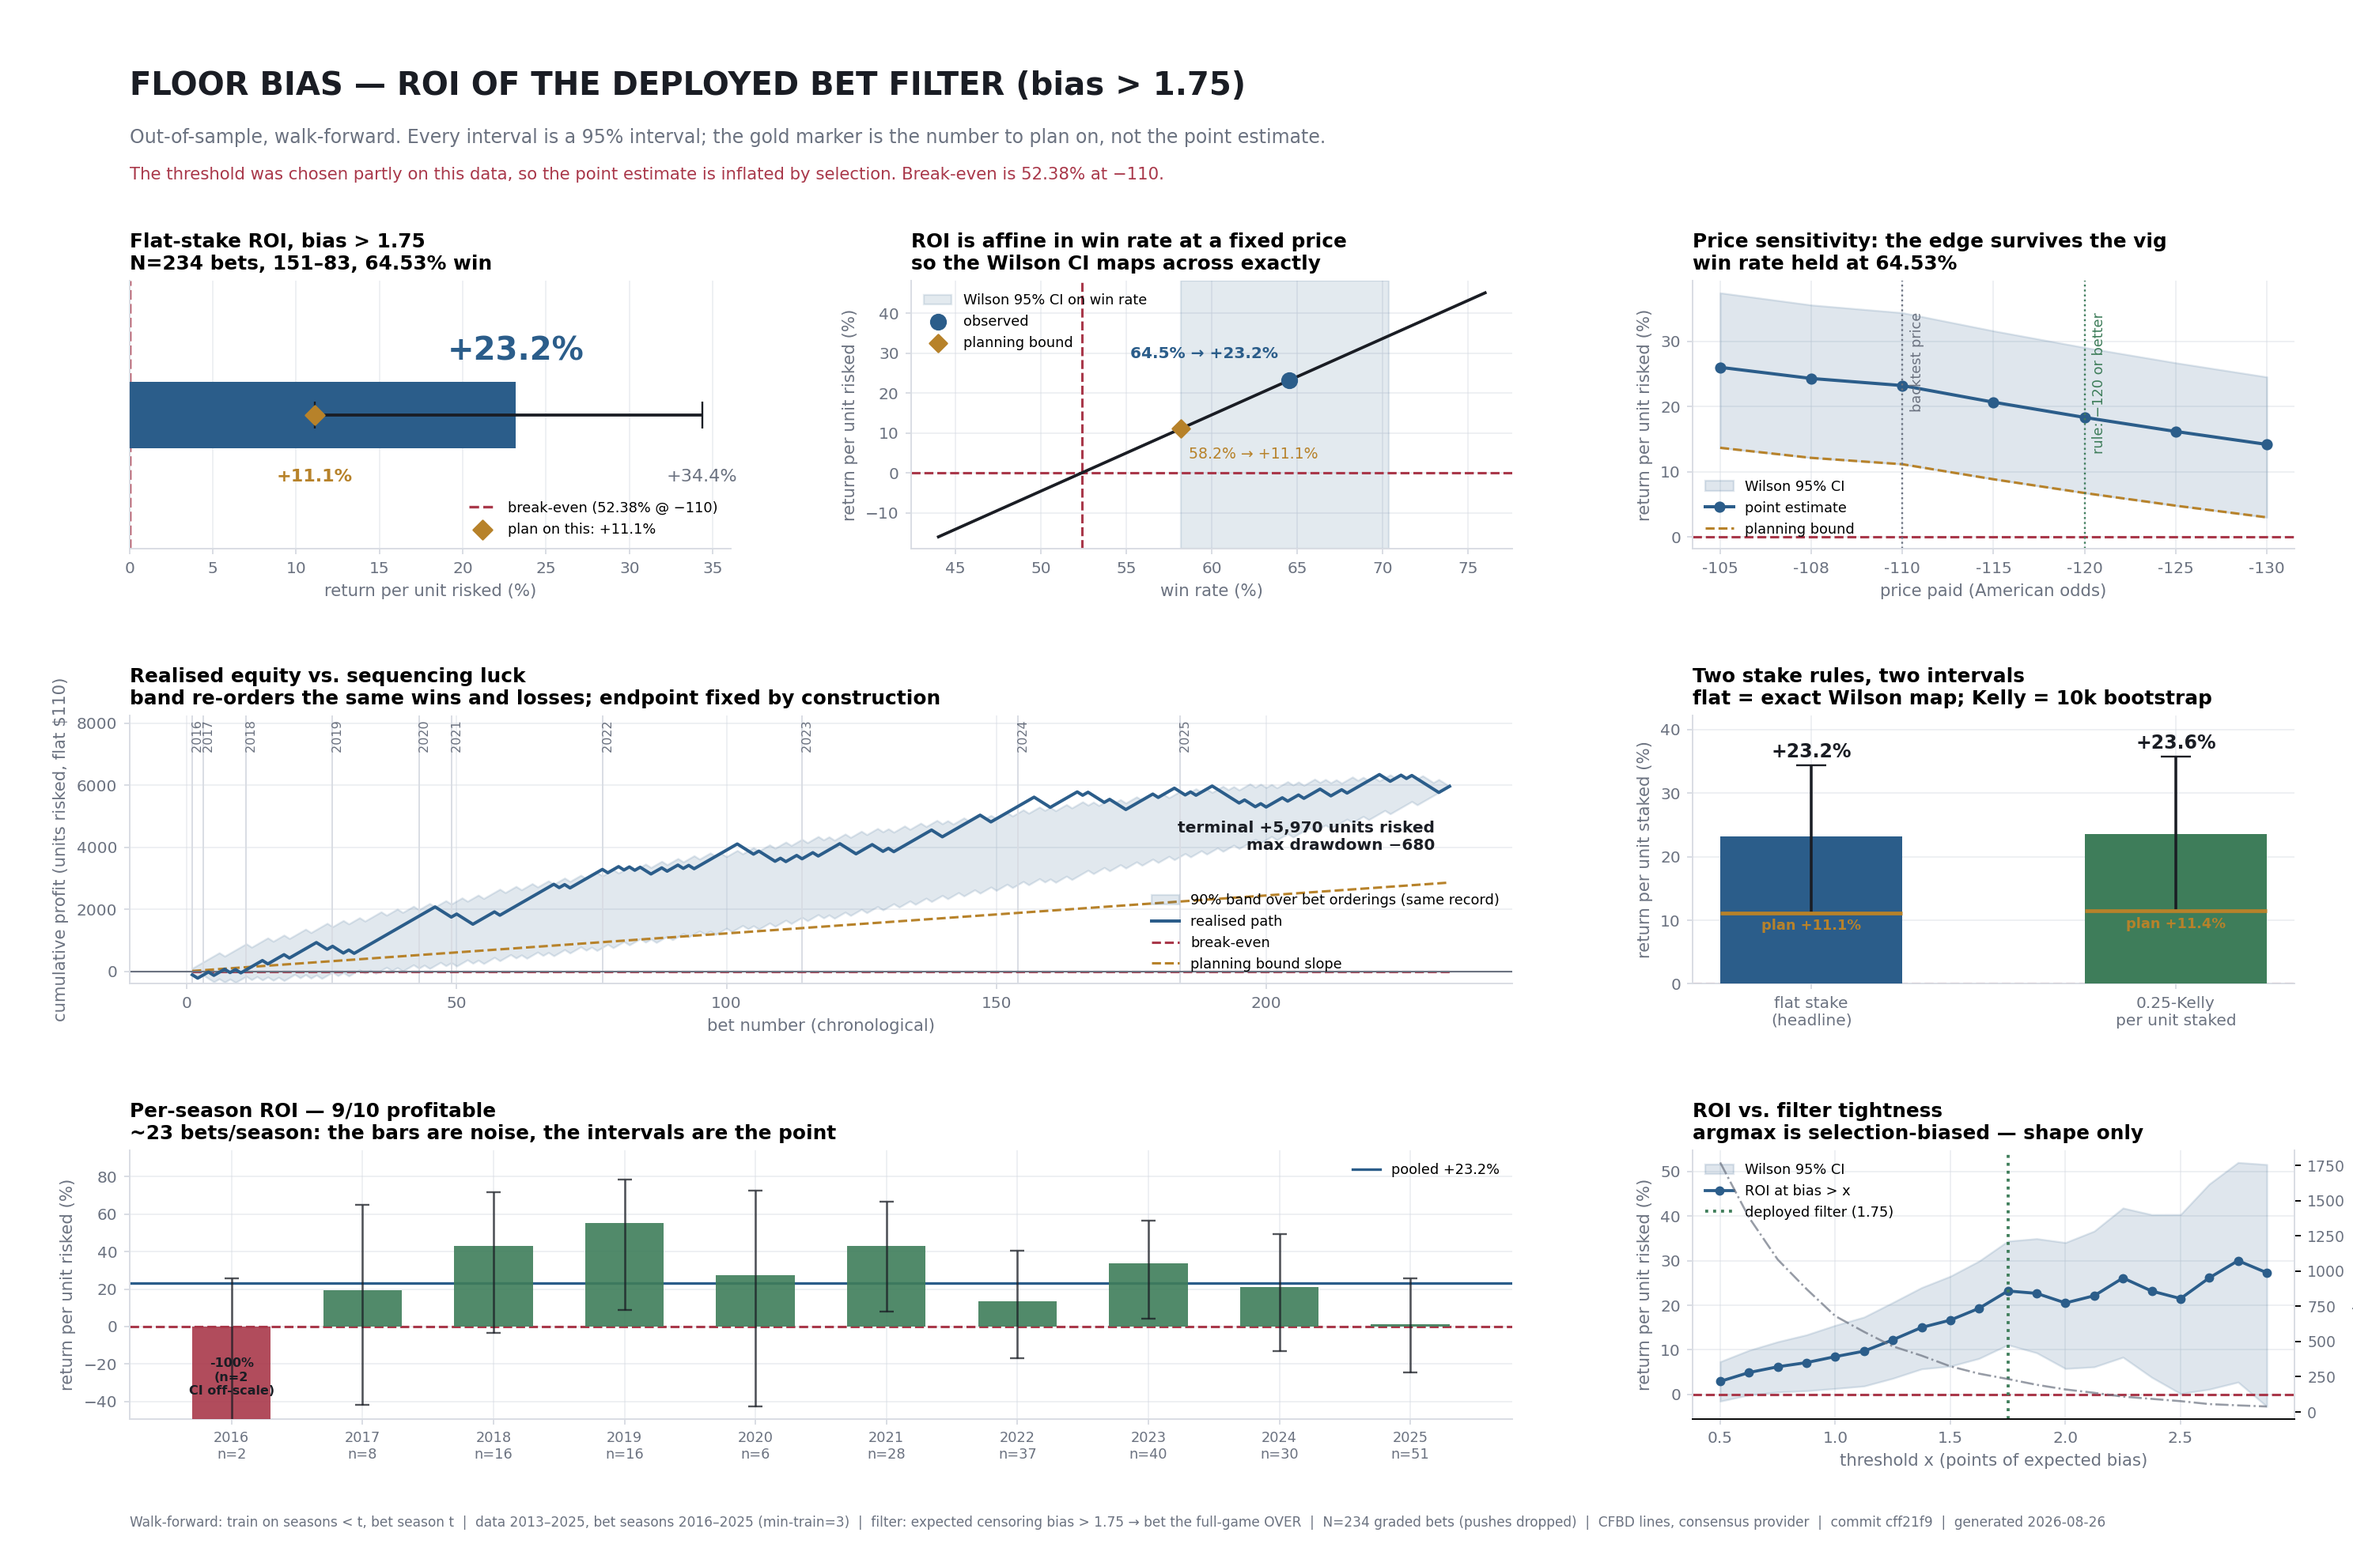
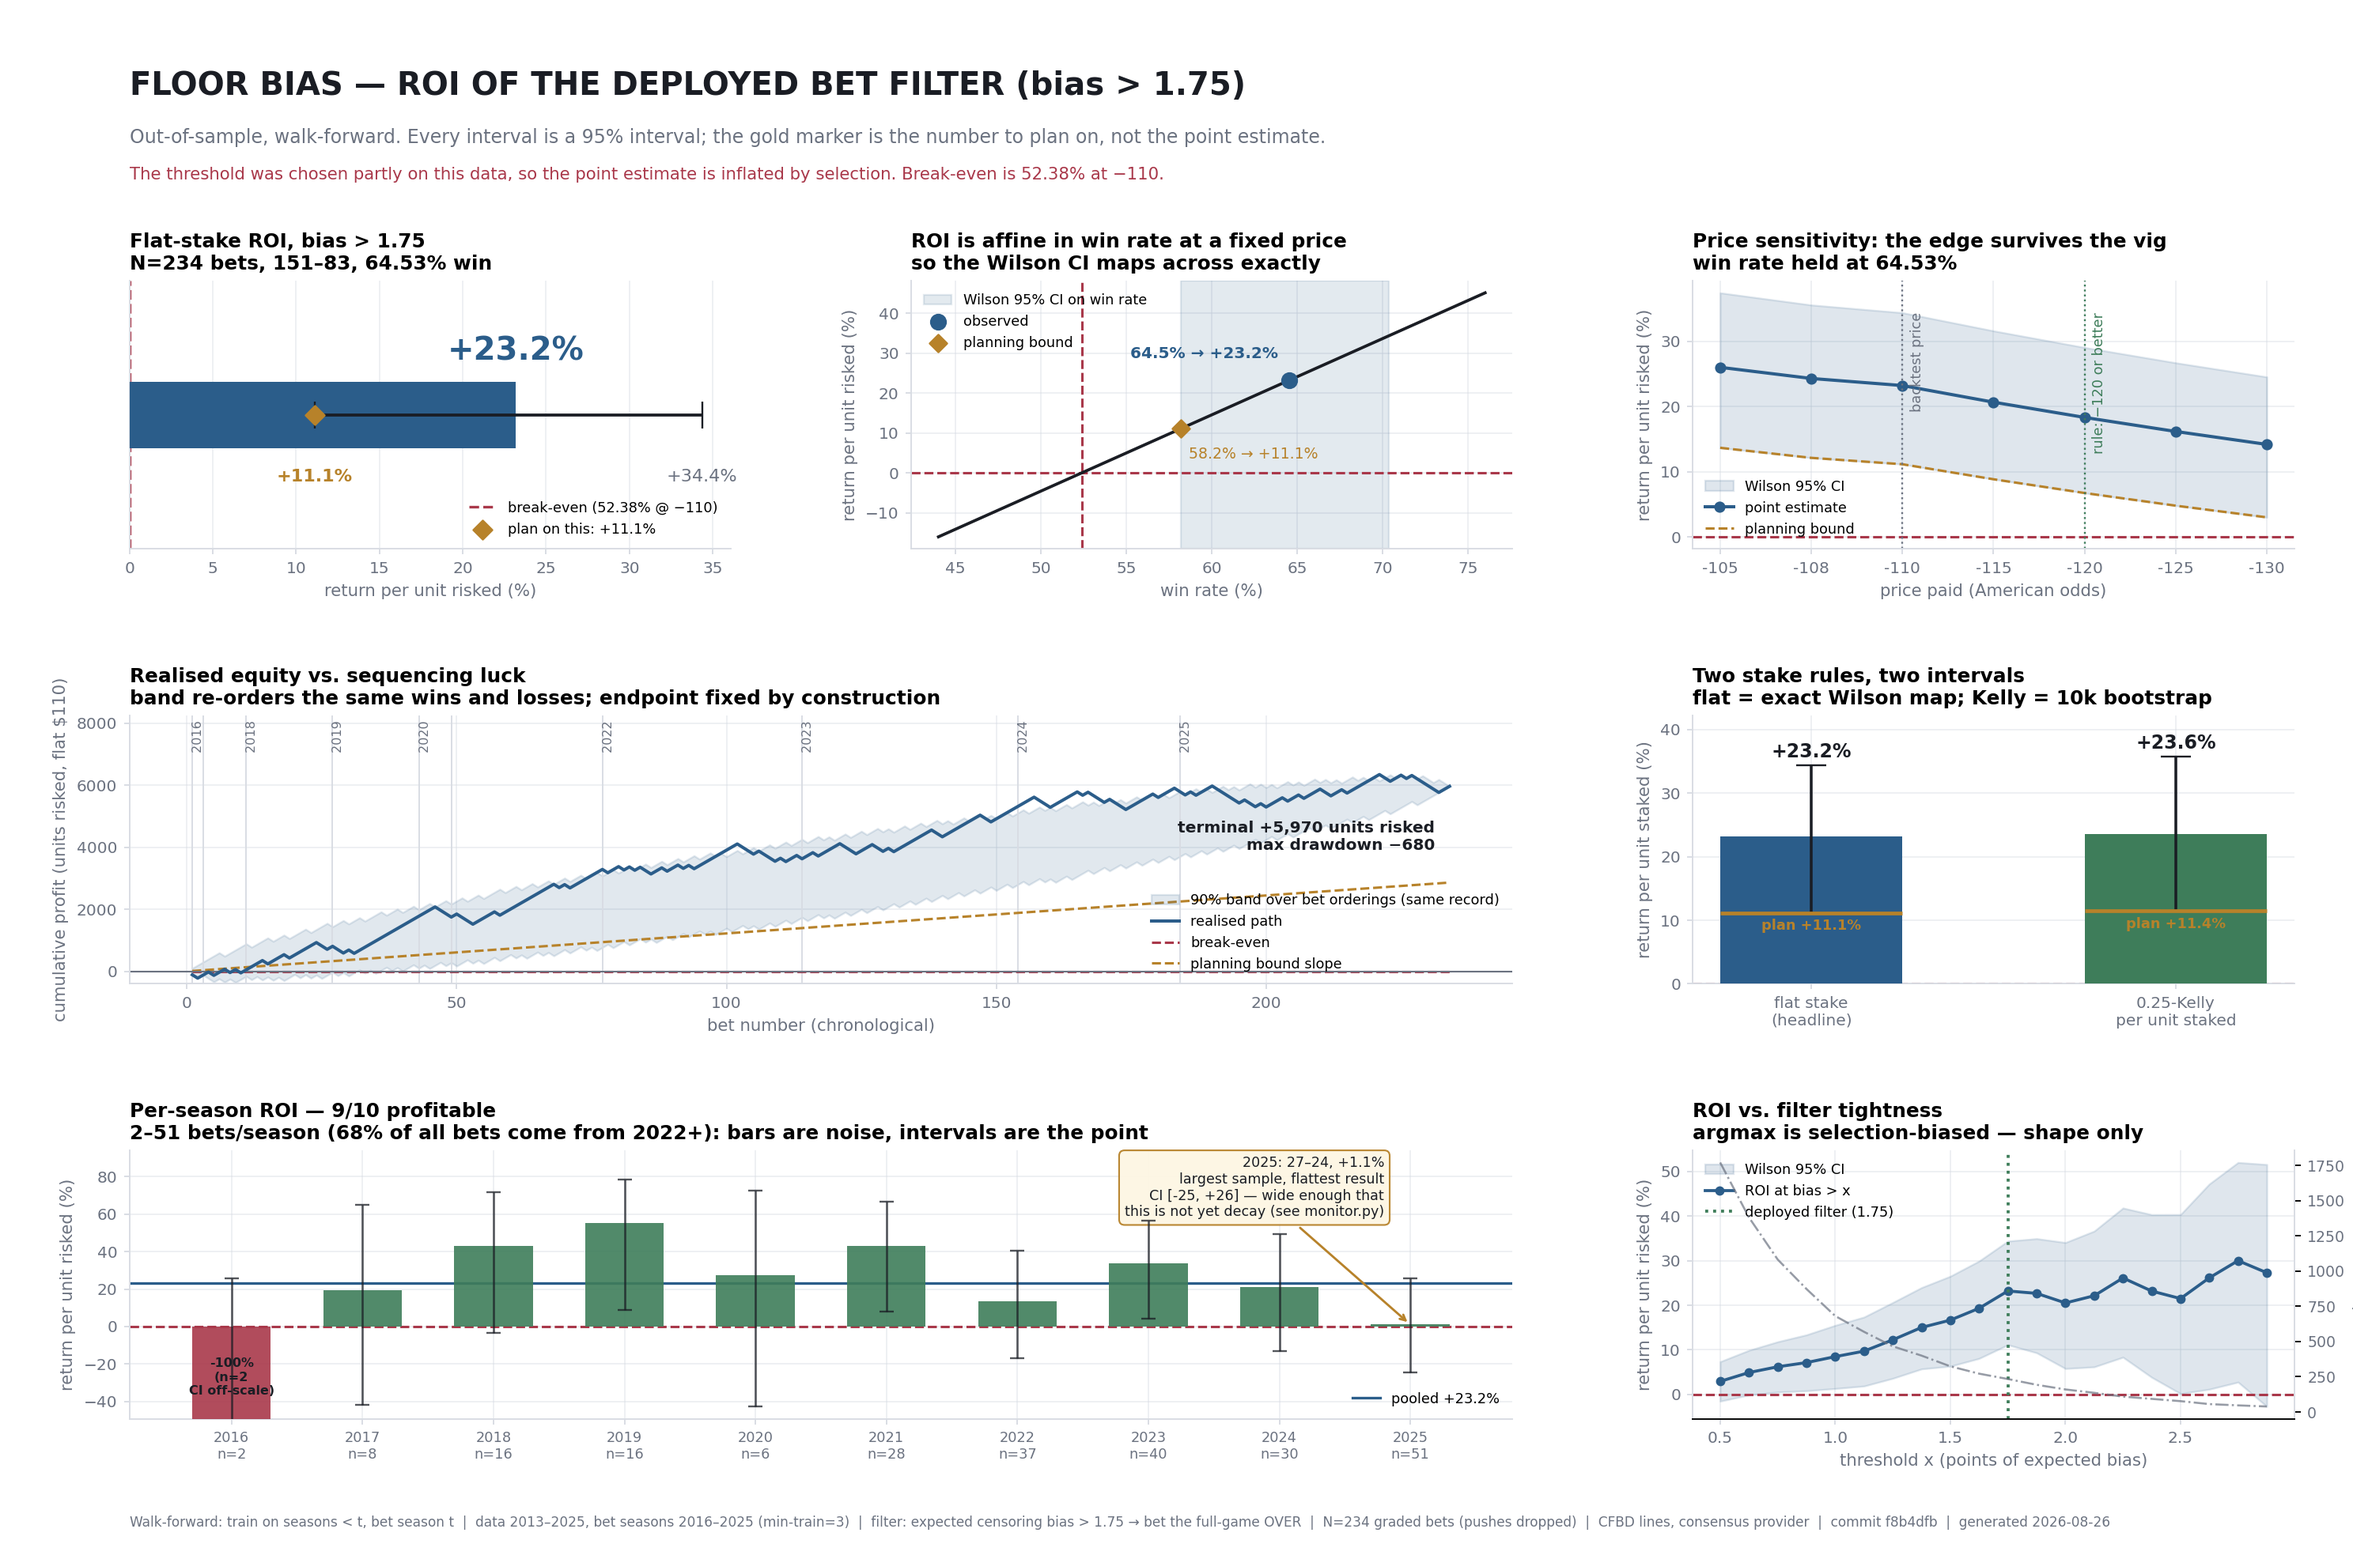
docs(monitor): surface the 2025 result and the back-loaded sample
Two facts a reader finds in seconds, so the chart names them first.

2025 is both the largest sample and the flattest result: 27-24, +1.07% ROI on
n=51, against a pooled +23%. Its own interval [-24.5, +25.9] contains the
pooled estimate and break-even alike, so it is not evidence of decay -- but
silence on the biggest, newest, flattest bar reads as concealment. Callout on
the figure, per-season table on stdout, and a pointer to run_monitor.py, which
is the test that actually measures decay.

The panel subtitle also claimed "~23 bets/season" -- the true mean, but the
distribution runs 2 to 51 and README says 30-50. Replaced with the range plus
the share of bets from 2022 on (68%), which says the useful thing: the pooled
estimate is mostly recent data.

Also: label season boundaries on the equity curve only where they have room
(2016 is 2 bets wide), and document roi_report.py in monitor/README.md.

Changed region(s): [[0.0618, 0.7115, 0.6185, 0.8043], [0.804, 0.9589, 0.8968, 0.9899]]

diff --git a/monitor/roi_report.py b/monitor/roi_report.py
@@ -332,10 +332,15 @@ def make_figure(stats, path):
     # sit inside the axes instead of clipping through the title.
     ax.set_ylim(min(float(stats["eq_lo"].min()), 0.0) * 1.12, eq.max() * 1.30)
     y_lab = ax.get_ylim()[1] * 0.98
+    last_lab = -99
     for b, t in stats["season_marks"]:
         ax.axvline(b, color=GRID, lw=0.8, zorder=1)
-        ax.text(b, y_lab, f" {t}", fontsize=6.8, color=MUTED,
-                rotation=90, va="top")
+        # Early seasons are only a couple of bets wide, so their labels would
+        # overprint. Draw every boundary; label only the ones with room.
+        if b - last_lab >= 8:
+            ax.text(b, y_lab, f" {t}", fontsize=6.8, color=MUTED,
+                    rotation=90, va="top")
+            last_lab = b
     ax.annotate(f"terminal +{eq[-1]:,.0f} units risked\n"
                 f"max drawdown −{stats['mdd']:,.0f}",
                 (eq.size, eq[-1]), textcoords="offset points",
@@ -402,14 +407,30 @@ def make_figure(stats, path):
                         (x, top * 0.55 if vals[x] > 0 else bot * 0.55),
                         ha="center", va="center", fontsize=6.8,
                         color=INK, fontweight="bold", zorder=6)
+    # The newest season is also the largest and the flattest. Call it out:
+    # a reader finds that bar in three seconds, and silence there reads as
+    # concealment. Its own CI is what says it is not yet evidence of decay.
+    last = rows[-1]
+    ax.annotate(f"{last['season']}: {last['wins']}–{last['n']-last['wins']}, "
+                f"{last['roi']*100:+.1f}%\nlargest sample, flattest result\n"
+                f"CI [{last['lo']*100:+.0f}, {last['hi']*100:+.0f}] — wide "
+                f"enough that\nthis is not yet decay (see monitor.py)",
+                (len(rows) - 1, last["roi"] * 100),
+                textcoords="offset points", xytext=(-14, 58), ha="right",
+                fontsize=7.4, color=INK,
+                bbox=dict(boxstyle="round,pad=0.4", fc="#fdf6e3", ec=GOLD,
+                          lw=0.9, alpha=0.95),
+                arrowprops=dict(arrowstyle="->", color=GOLD, lw=1.2))
     ax.set_xticks(xs)
     ax.set_xticklabels([f"{r['season']}\nn={r['n']}" for r in rows],
                        fontsize=7.5)
     ax.set_ylabel("return per unit risked (%)")
     ax.set_title(f"Per-season ROI — {stats['pos_seasons']}/{len(rows)} "
-                 "profitable\n~23 bets/season: the bars are noise, "
-                 "the intervals are the point", loc="left")
-    ax.legend(fontsize=7.5, loc="upper right", frameon=False)
+                 f"profitable\n{stats['n_min']}–{stats['n_max']} bets/season "
+                 f"({stats['recent_share']*100:.0f}% of all bets come from "
+                 f"{stats['recent_from']}+): bars are noise, intervals are "
+                 "the point", loc="left")
+    ax.legend(fontsize=7.5, loc="lower right", frameon=False)
 
     # --- Panel 7: threshold sweep, ROI form -------------------------------
     ax = fig.add_subplot(gs[2, 2])
@@ -531,8 +552,15 @@ def main():
         sweep.append({"x": float(x), "n": nn, "roi": unit_roi(ww / nn),
                       "lo": lo_x, "hi": hi_x})
 
+    # Bet counts are heavily back-loaded (2 in the first season, 51 in the
+    # last), so "average bets per season" would misdescribe the sample.
+    recent_from = years[-1] - 3
+    recent_share = sum(r["n"] for r in rows if r["season"] >= recent_from) / n
+
     stats = {
         "threshold": args.threshold, "n": n, "wins": wins, "win": win,
+        "n_min": min(r["n"] for r in rows), "n_max": max(r["n"] for r in rows),
+        "recent_share": recent_share, "recent_from": recent_from,
         "win_lo": win_lo, "win_hi": win_hi,
         "roi": roi, "roi_lo": roi_lo, "roi_hi": roi_hi,
         "kelly": k_roi, "kelly_lo": k_lo, "kelly_hi": k_hi,
@@ -560,7 +588,23 @@ def main():
           f"{k_n}/{n} games staked)")
     print(f"  equity: terminal {equity[-1]:+,.0f} units risked, "
           f"max drawdown {stats['mdd']:,.0f}")
-    print(f"  seasons profitable: {stats['pos_seasons']}/{len(rows)}")
+    print(f"  seasons profitable: {stats['pos_seasons']}/{len(rows)}  "
+          f"({stats['n_min']}-{stats['n_max']} bets/season; "
+          f"{recent_share*100:.0f}% of bets from {recent_from}+)")
+    print("\n  per-season detail:")
+    for r in rows:
+        print(f"    {r['season']}  n={r['n']:>3}  {r['wins']:>3}-"
+              f"{r['n']-r['wins']:<3}  win={r['win']*100:6.2f}%  "
+              f"ROI={r['roi']*100:+7.2f}%  "
+              f"95% [{r['lo']*100:+7.2f}, {r['hi']*100:+7.2f}]")
+    last = rows[-1]
+    print(f"\n  NOTE: {last['season']} is the largest sample "
+          f"(n={last['n']}) and the flattest result "
+          f"({last['roi']*100:+.2f}%).")
+    print(f"  Its interval [{last['lo']*100:+.1f}, {last['hi']*100:+.1f}] "
+          f"spans both the pooled estimate and break-even, so it is not "
+          f"evidence\n  of decay on its own -- monitor/monitor.py is the "
+          f"test that measures decay directly.")
     print("\n  price sensitivity (win rate held fixed):")
     for p in PRICES:
         print(f"    {p:>5}  break-even {breakeven(p)*100:5.2f}%  "

diff --git a/monitor/README.md b/monitor/README.md
@@ -10,11 +10,14 @@ python monitor/run_monitor.py                 # decay tables, 2013–2025
 python monitor/run_monitor.py --width 3       # trailing-window width
 python monitor/run_walkforward.py             # train ≤ t−1, bet season t
 python monitor/run_walkforward.py --threshold 1.75 --min-train 5
+python monitor/roi_report.py                  # ROI of the deployed filter + figure
 ```
 
 Files: `monitor.py` (per-season/trailing stats, Wilson CIs, slope trend test),
-`run_monitor.py` (decay driver), `run_walkforward.py` (walk-forward backtest).
-Estimator core imported from `../v2`.
+`run_monitor.py` (decay driver), `run_walkforward.py` (walk-forward backtest),
+`bias_bins.py` (profit by bias bin + threshold sweep), `roi_report.py`
+(ROI of the deployed filter, with intervals). Estimator core imported
+from `../v2`.
 
 ## run_monitor — is the edge decaying?
 
@@ -66,3 +69,50 @@ Result (2013–2025 data, first bet season 2016, run 2026-07-30):
 Wilson **lower bound clears breakeven** for both rules, and the walk-forward
 win rate matches the in-sample headline (56.62%) — the edge is not an
 artifact of time-mixed cross-validation.
+
+## roi_report — what does the deployed filter actually return?
+
+`run_walkforward.py` answers *does it win*; this answers *what does a unit
+risked earn*, for the filter actually deployed (**bias > 1.75**, not the 1.0
+the decay drivers keep). Same walk-forward protocol; the only addition is a
+season label per bet, which the equity curve and per-season bars need.
+
+```bash
+python monitor/roi_report.py                        # table + docs/figs/roi_report.png
+python monitor/roi_report.py --threshold 1.0        # compare filters
+python monitor/roi_report.py --self-check           # ROI maths assertions
+```
+
+Three ROI definitions, ranked as MODEL_GUIDE ranks them:
+
+- **flat-stake unit ROI** — headline. Order-independent, and *affine in the
+  win rate* at a fixed price, so the Wilson win-rate CI maps onto an exact
+  ROI interval. No bootstrap needed.
+- **¼-Kelly per unit staked** — secondary. Varying stake breaks the affine
+  map, so its interval is bootstrapped (10k resamples).
+- **compounded bankroll** — equity curve only, labelled order-dependent.
+
+Result (2013–2025 data, bet seasons 2016–2025, run 2026-08-26):
+
+| metric | value | 95% interval |
+|--------|-------|--------------|
+| record | 151–83 (64.53%) over N=234 | win [58.21%, 70.38%] |
+| flat-stake ROI @ −110 | **+23.19%** per unit risked | [+11.13%, +34.36%] |
+| ¼-Kelly ROI | +23.58% per unit staked | [+11.45%, +35.77%] (boot) |
+| ROI @ −120 | +18.30% | planning bound +6.72% |
+| max drawdown | 680 units risked | — |
+
+**Plan on the lower bound, not the point estimate.** The 1.75 threshold was
+chosen partly on this data, so +23% is inflated by selection; +11% is the
+number to stake against. At −130 the planning bound is +3.0%, which is why
+the operational rule caps the price at −120.
+
+Two things the figure deliberately puts in front of the reader:
+
+- **2025 is the largest sample and the flattest result**: 27–24, +1.07% ROI
+  on n=51, against a pooled +23%. Its own CI is [−24.5%, +25.9%] — wide
+  enough to contain both the pooled estimate and breakeven, so it is not
+  evidence of decay on its own. `run_monitor.py` is the test that measures
+  decay directly, and as of the last run it finds none.
+- **The sample is back-loaded**: 2–51 bets per season, with 68% of all bets
+  coming from 2022 onward. The pooled figure is mostly recent data.
